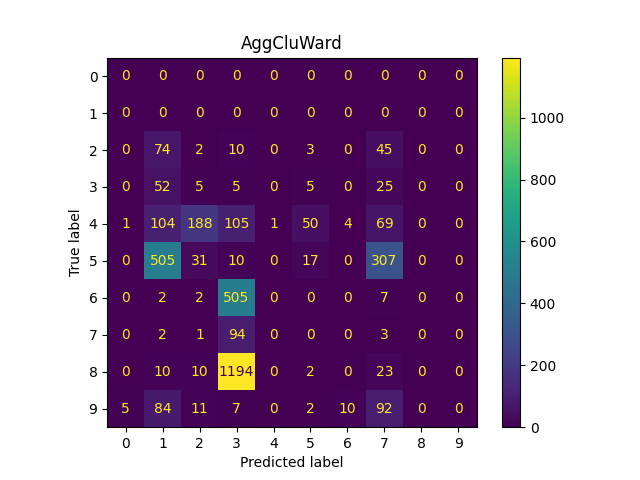
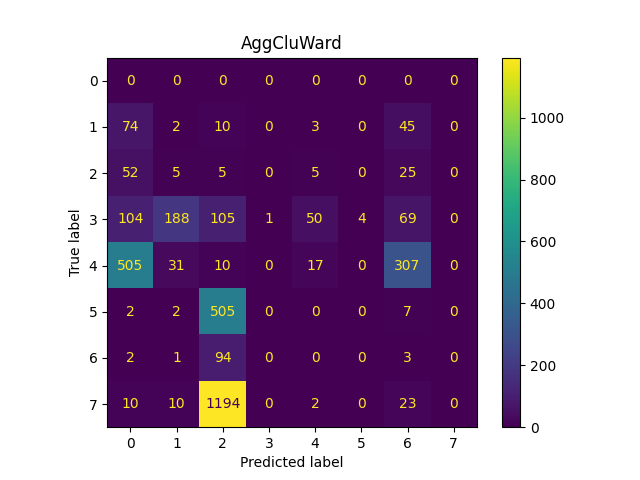
Final confusion matrices png commit

diff --git a/visualization_script.py b/visualization_script.py
@@ -24,7 +24,7 @@ df = df.loc[df['class_label'] != 0]
 print(df)
 
 for i in methods:
-    confusion_matrix = metrics.confusion_matrix(df['class_label'], df[i])
+    confusion_matrix = metrics.confusion_matrix(df['class_label'], df[i], labels=[1,2,3,4,5,6,7,8])
     cm_display = metrics.ConfusionMatrixDisplay(confusion_matrix = confusion_matrix)
     cm_display.plot()
     plt.title(i)
